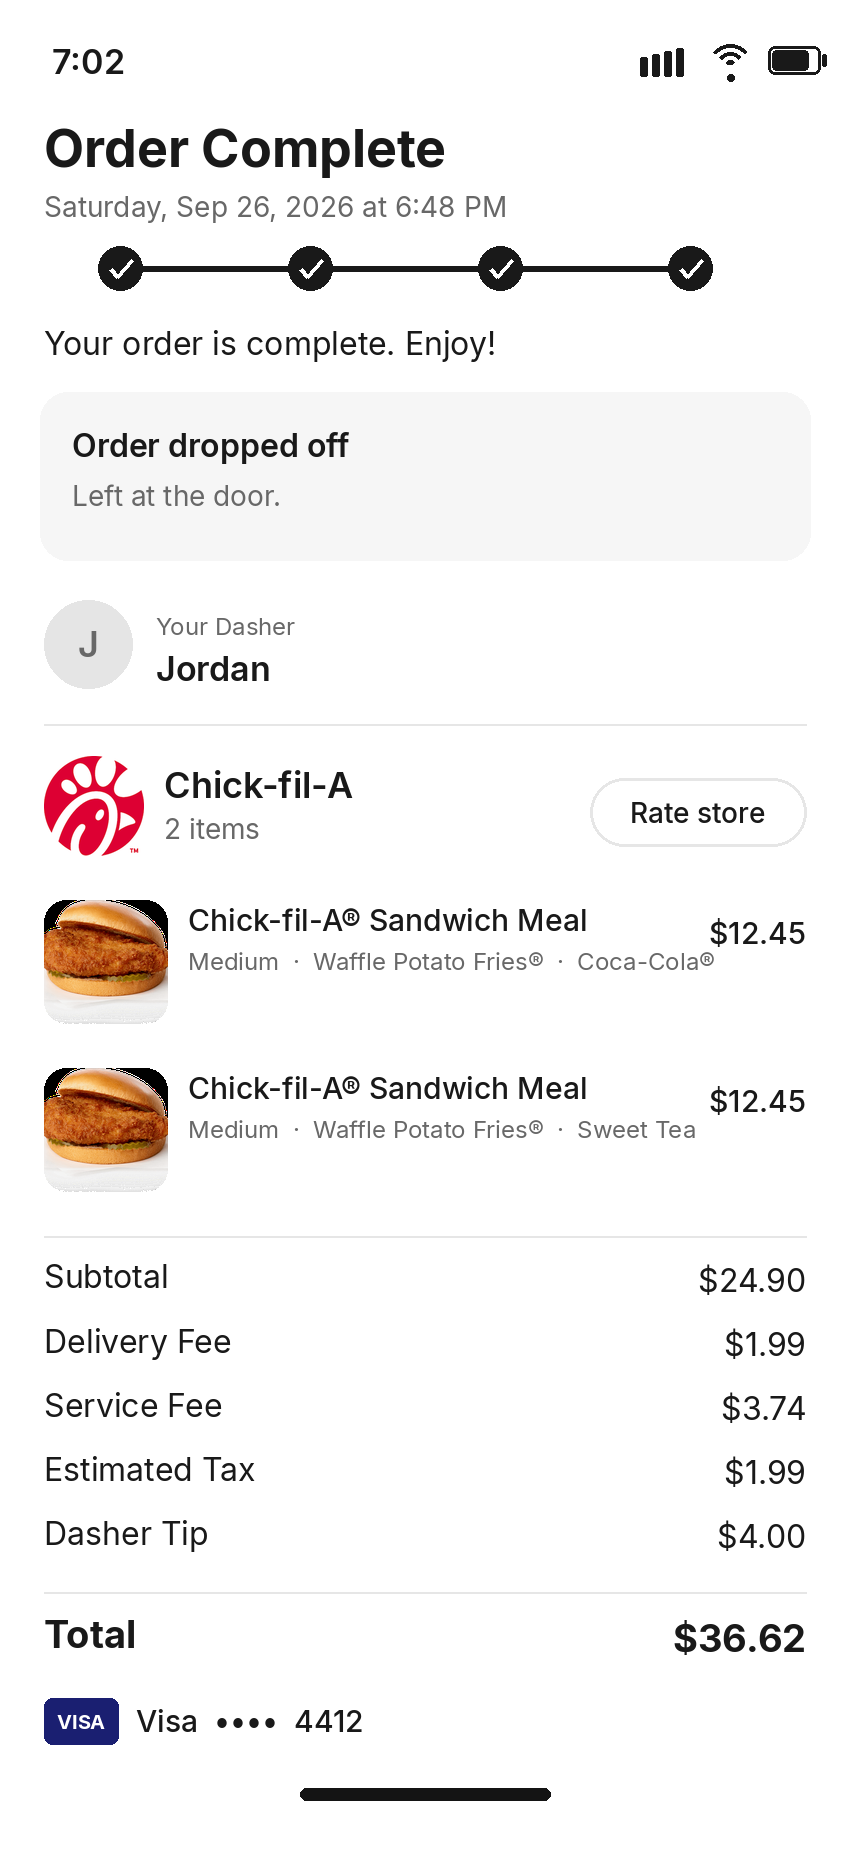
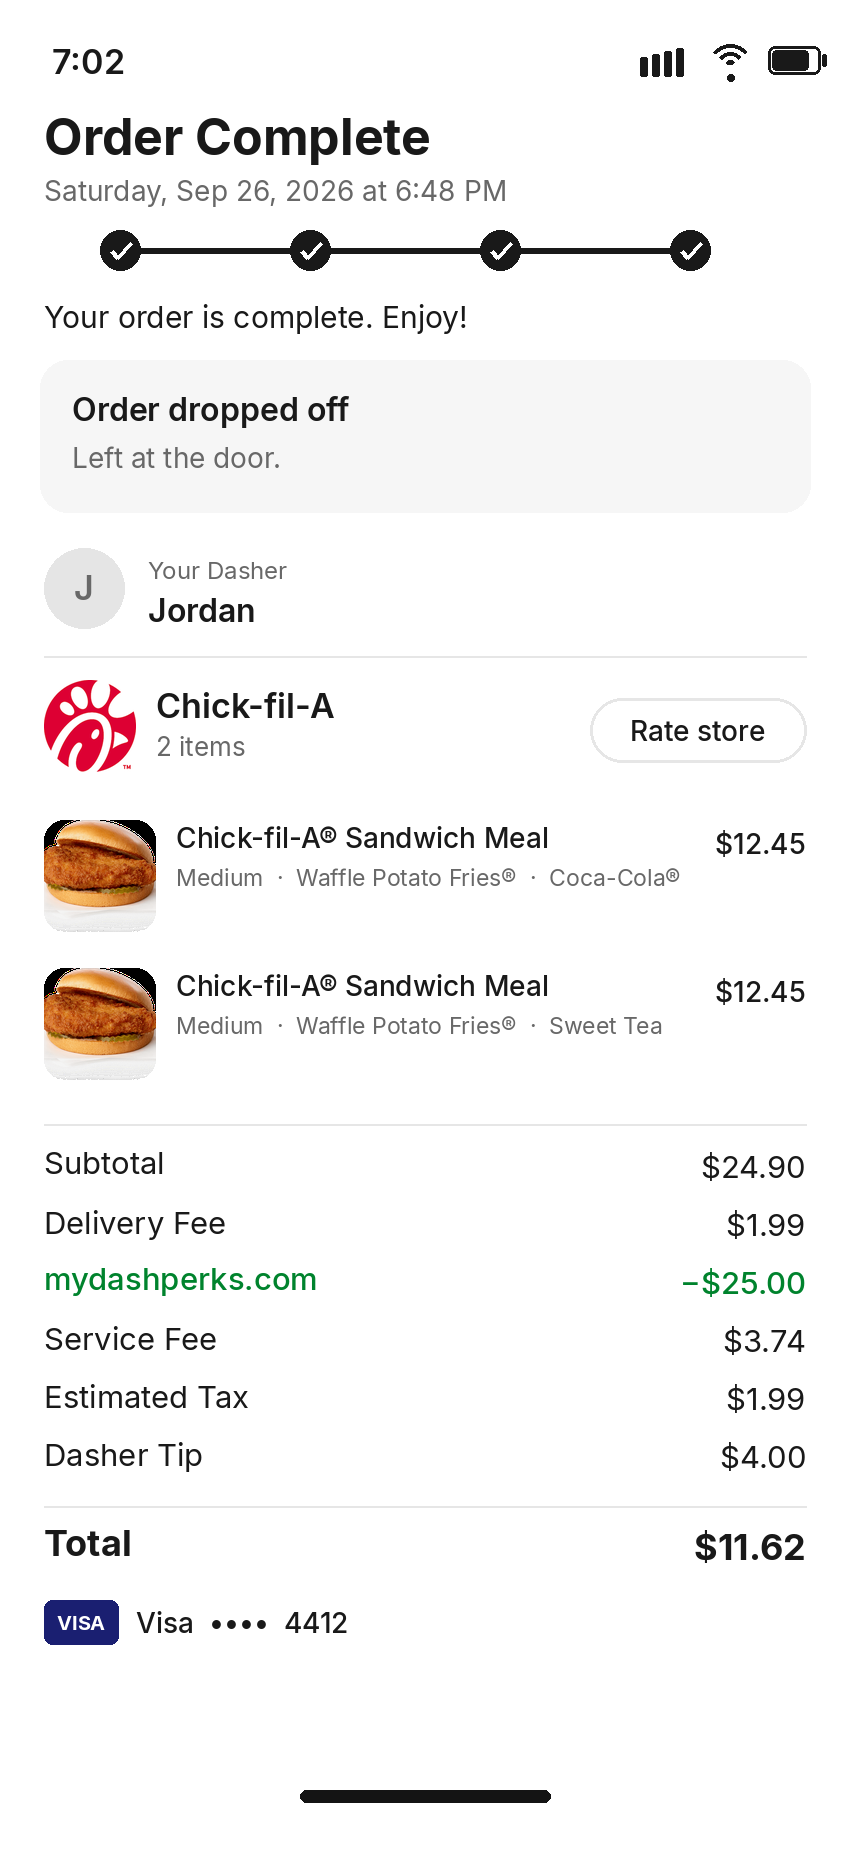
Put a $25 mydashperks.com row on the Chick-fil-A order.
The green line sits under delivery. The bill now totals $11.62.

diff --git a/outputs/cfa_2person/PRICES.md b/outputs/cfa_2person/PRICES.md
@@ -10,11 +10,14 @@ Food price source: DoorDash's indexed menu for that store lists Chick-fil-A® Sa
 | Chick-fil-A® Sandwich Meal (medium waffle fries, sweet tea) | $12.45 |
 | Subtotal | $24.90 |
 | Delivery Fee | $1.99 (estimate) |
+| mydashperks.com | −$25.00 |
 | Service Fee | $3.74 (15% of subtotal, estimate) |
 | Estimated Tax | $1.99 (6.5% of subtotal + delivery + service) |
 | Dasher Tip | $4.00 |
-| Total | $36.62 |
+| Total | $11.62 |
 
-No mydashperks.com row. Screen time is 7:02 PM. Order completed Saturday, Sep 26, 2026 at 6:48 PM, so it is not a Sunday order.
+The $25 comes off the bill. Service fee and tax stay on the pre-perk amounts, same as the Jalen receipt. $24.90 + $1.99 + $3.74 + $1.99 + $4.00 − $25.00 = $11.62.
+
+Screen time is 7:02 PM. Order completed Saturday, Sep 26, 2026 at 6:48 PM, so it is not a Sunday order. The green row is #00832D, under Delivery Fee.
 
 Flat file: `order_complete.png` at 850×1850.
